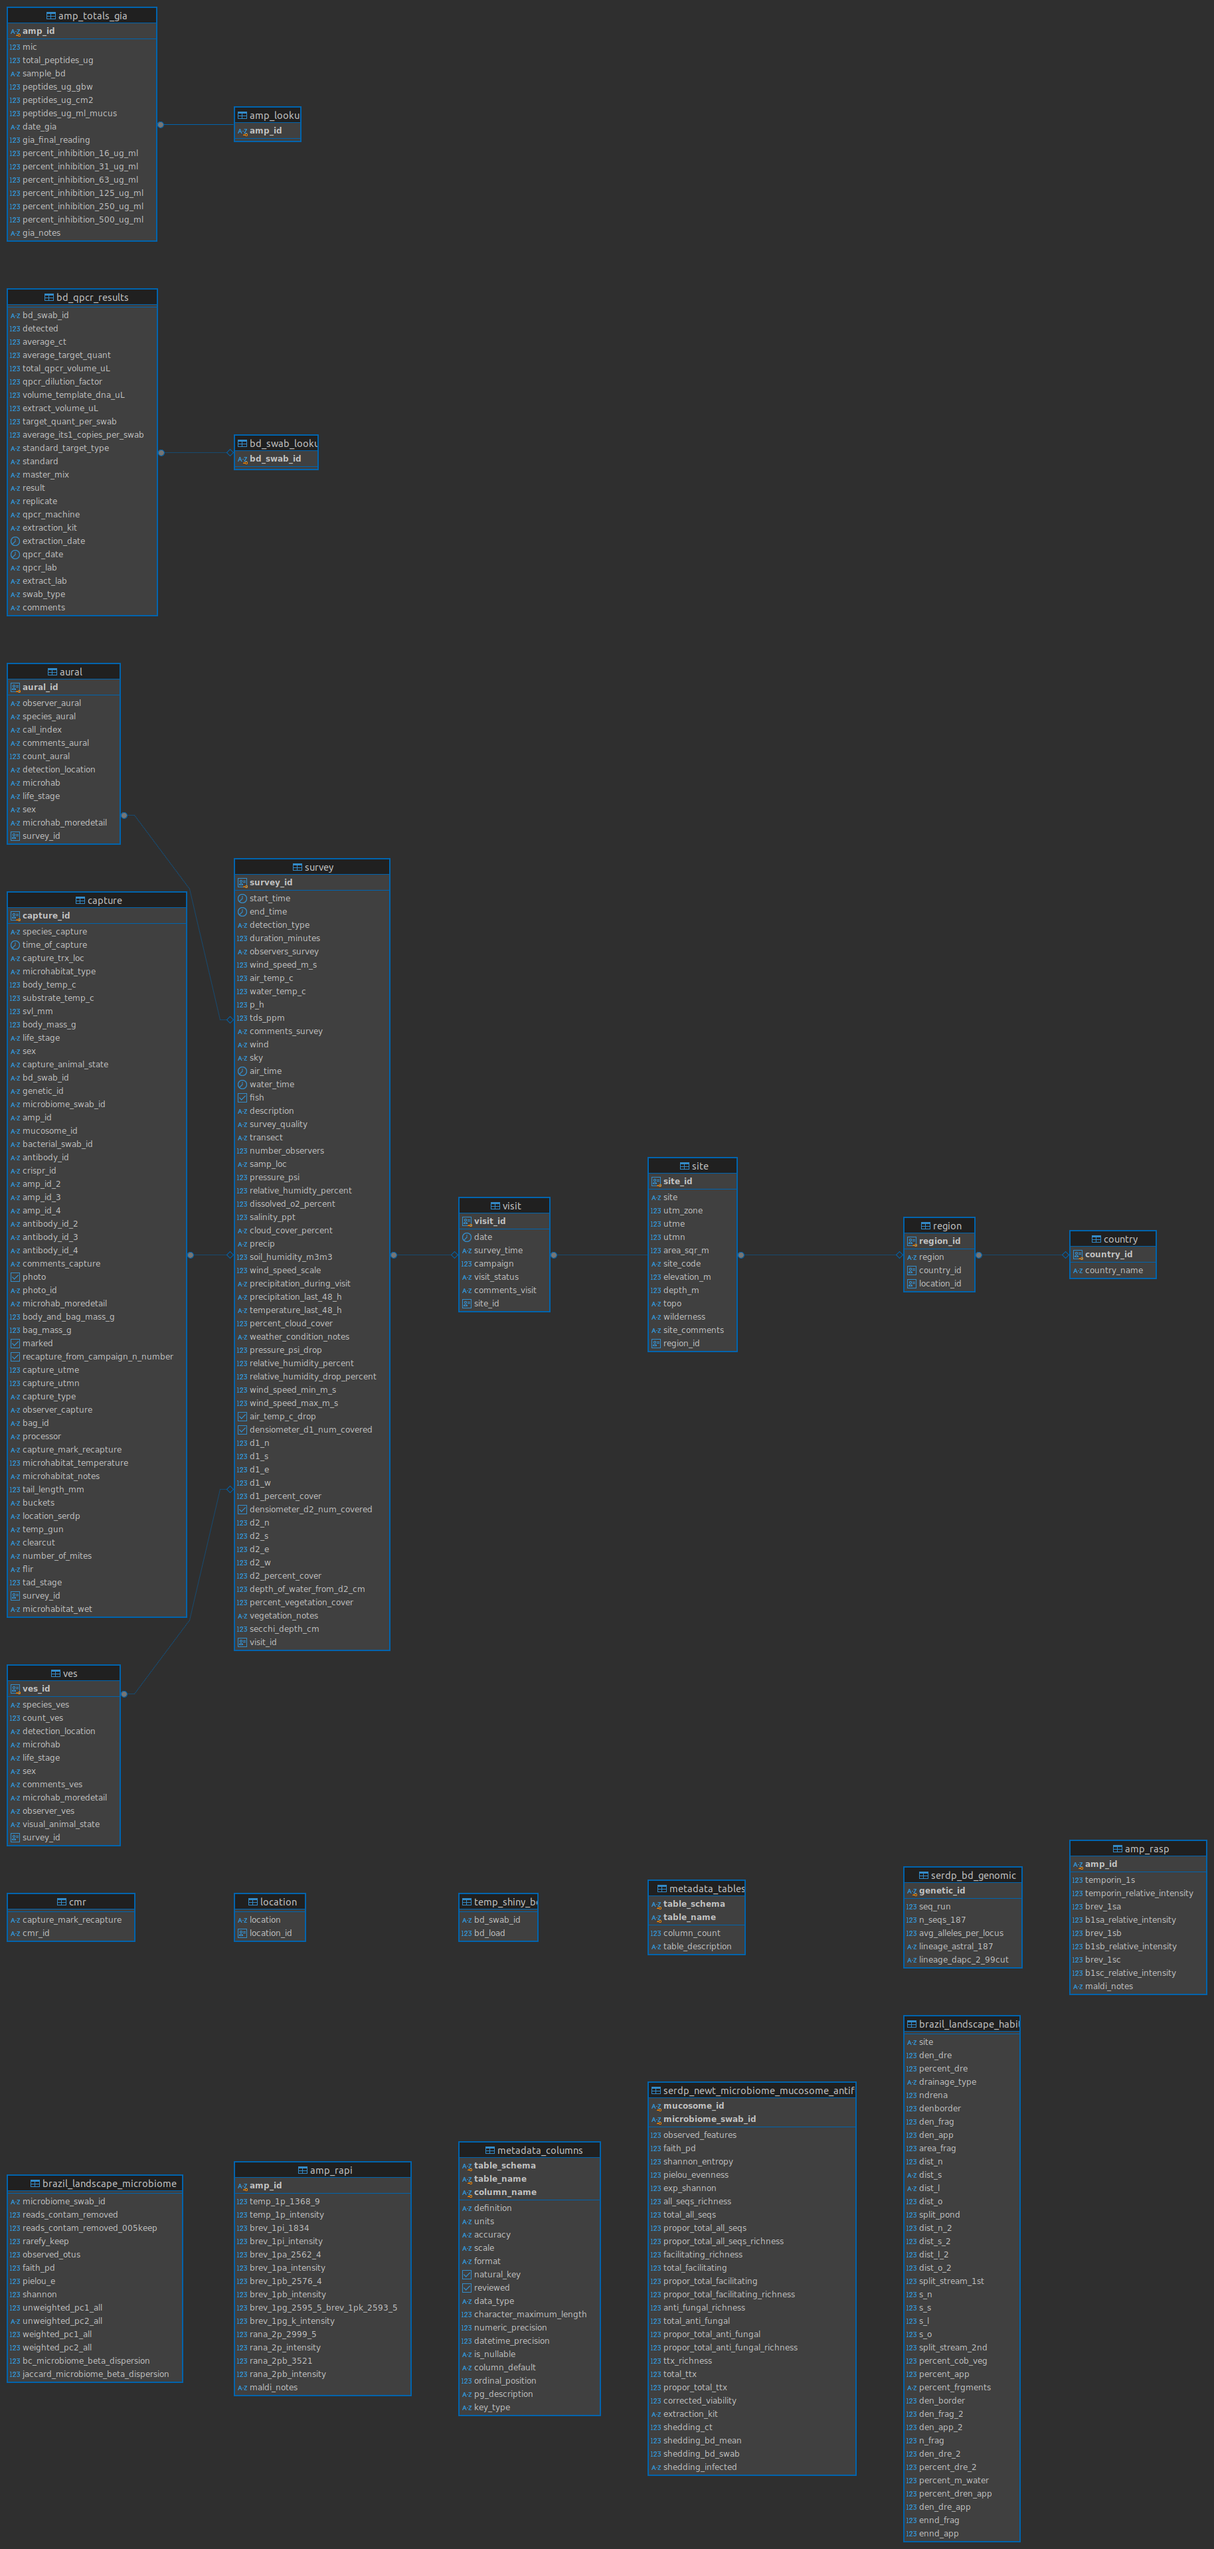
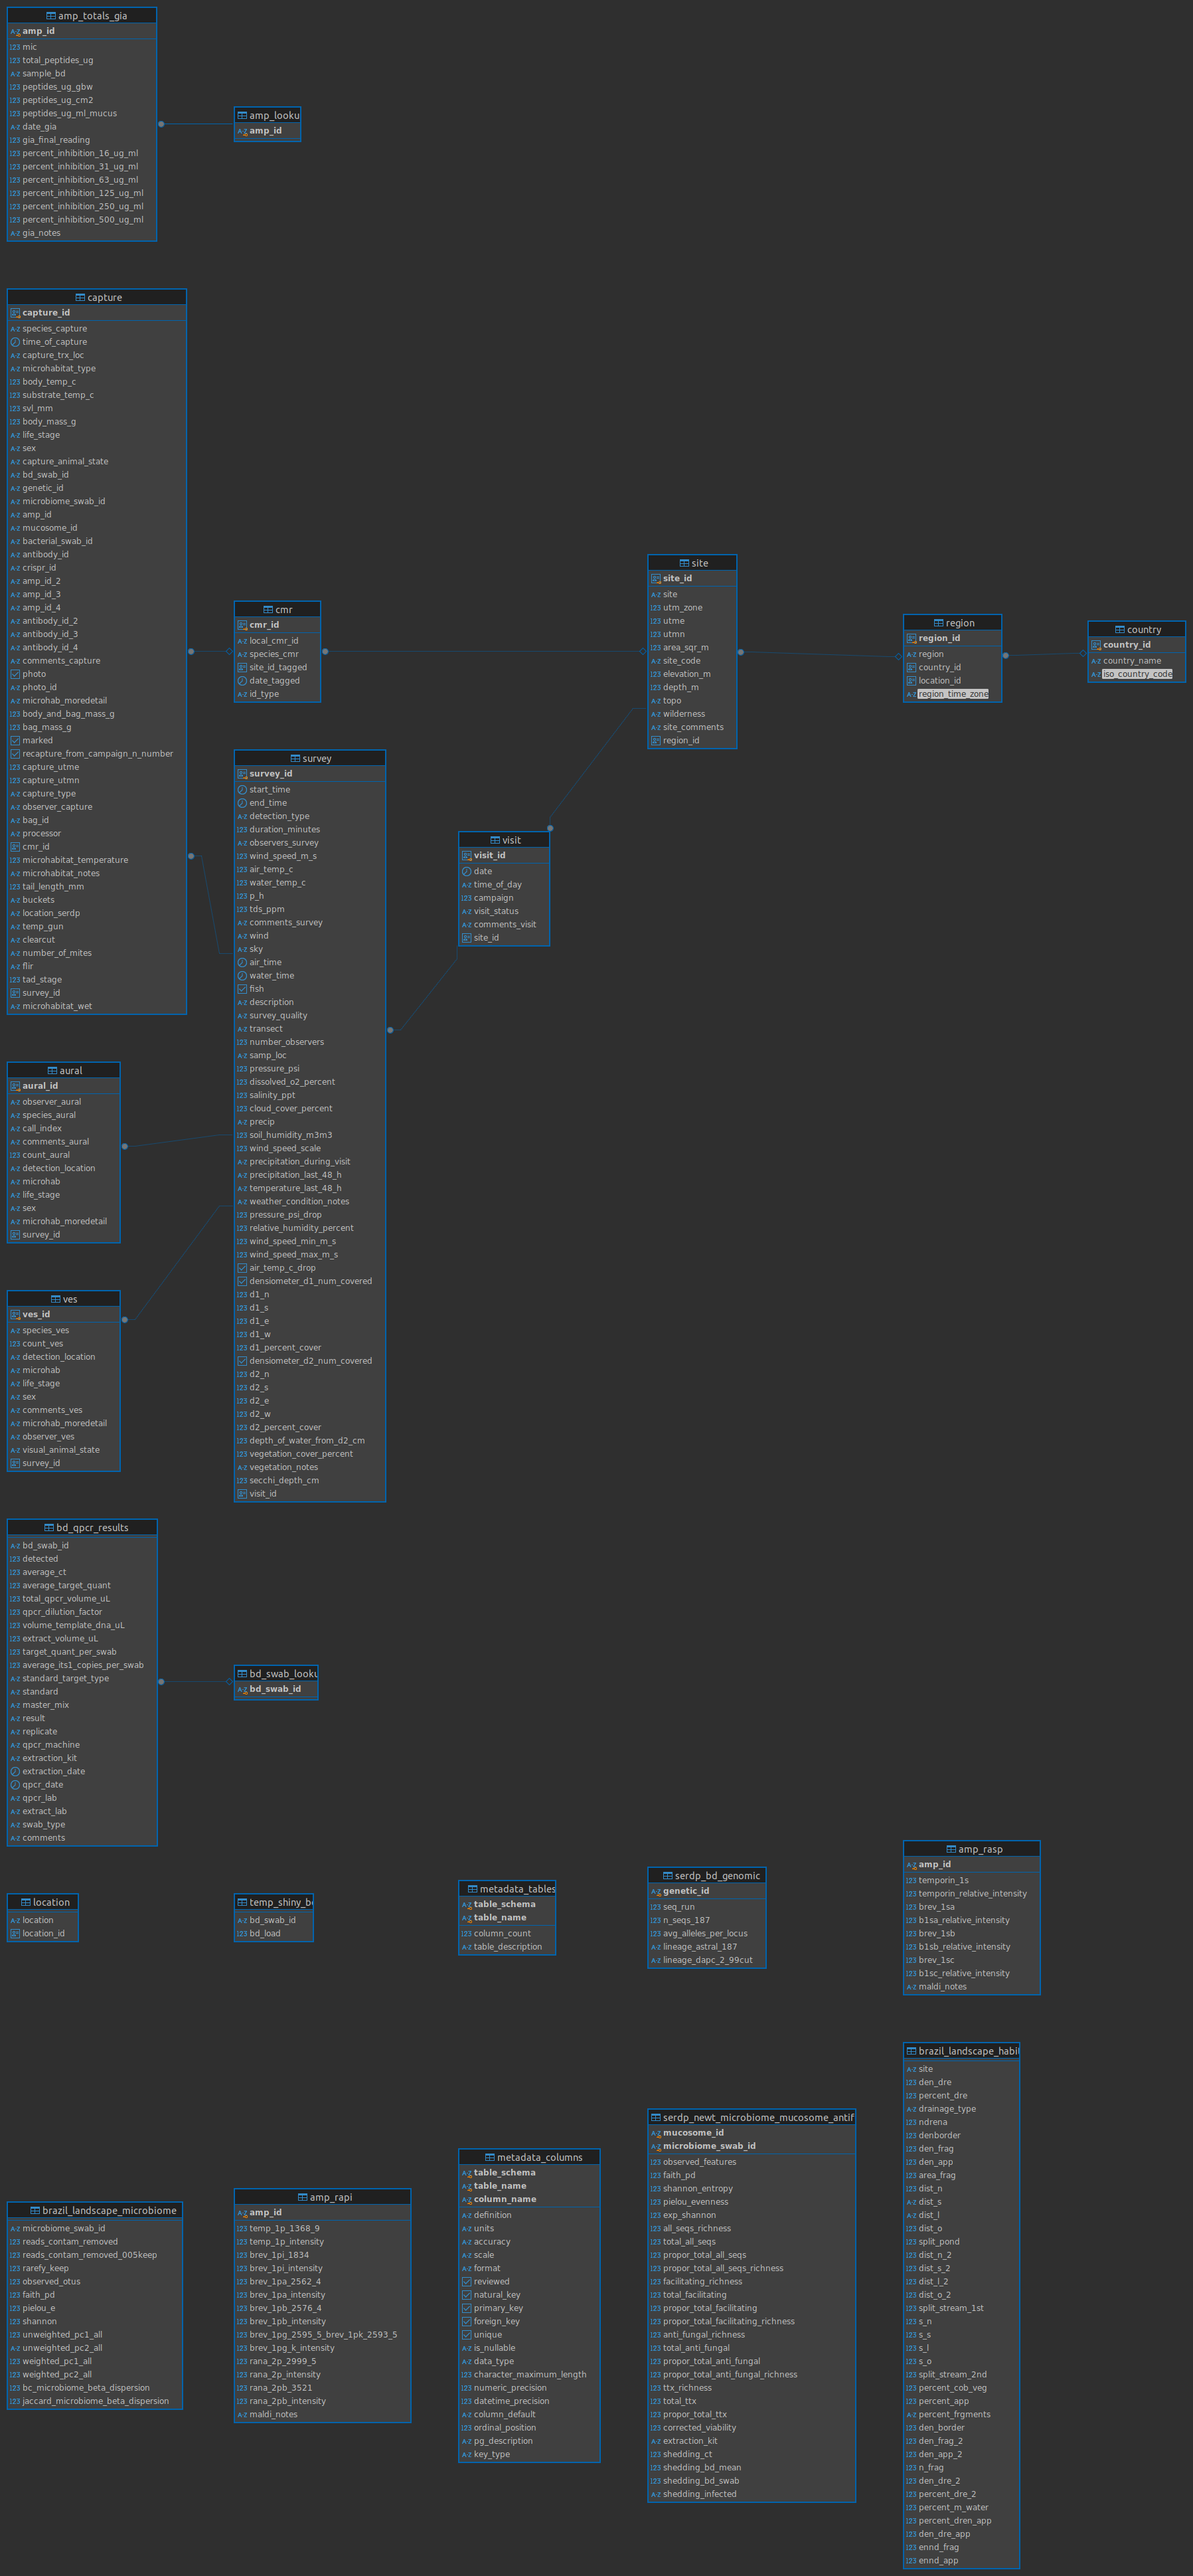
update changelog and survey diagram

diff --git a/resources/db_changelog.md b/resources/db_changelog.md
@@ -7,17 +7,28 @@ editor: source
 
 # Change Log for RIBBiTR_DB
 
-## 2024-11-15
+## 2024-11-19
 
 ### Added
 
 - Pennsylvania survey data through 2024
+- cmr table
+  - cmr.species_cmr
+  - cmr.site_id_tagged
+  - cmr.date_tagged
+  - cmr.id_type
+- region table
+  - region.time_zone
 
 ### Changed
 
 - visit.time_of_day <- visit.survey_time
   - to clarify as descriptor of visit, not of survey
 - recalculated survey.duration_minutes, flipping survey.start_time and survey.end_time when duration exceeded 18 hours
+- capture.cmr_id <- capture.capture_mark_recapture
+- cmr table
+  - cmr.cmr_id <- cmr.capture_mark_recapture
+  - cmr.local_cmr_id <- cmr.cmr_id
 
 
 ## 2024-11-13
@@ -36,6 +47,8 @@ editor: source
 - survey
   - survey.vegetation_cover_percent <- survey.percent_vegetation_cover
   - survey.percent_cloud_cover coalesced with survey.cloud_cover_percent, former dropped
+  - survey.relative_humidty_percent coalesced with survey.relative_humidity_percent, former dropped
+  - survey.relative_humidity_drop_percent dropped
   
 ### Added
 - country.iso_country_code
